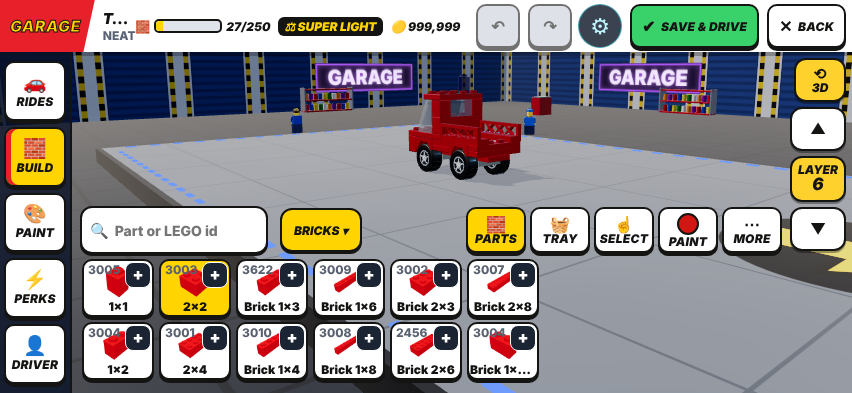
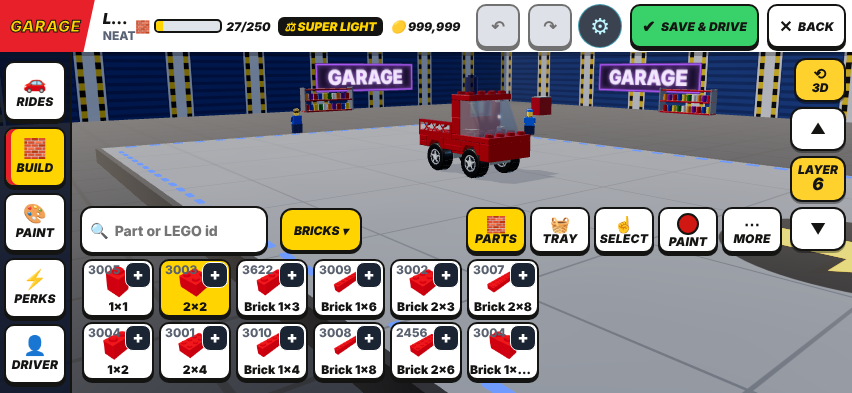
veh: Ladder Truck (LEGO 620 Classic Town truck, fix: facing forward with --yaw 3, LDraw by Takeshi Takahashi, CCAL 2.0) as RIDES preset t_v620_1
Claude-Session: https://claude.ai/code/session_01EyTkWHVhqPJ5PdrDtAmH7s

Changed region(s): [[0.4577, 0.1832, 0.6408, 0.458], [0.1221, 0.0305, 0.1526, 0.0611]]

diff --git a/src/98ld_v_620-1.js b/src/98ld_v_620-1.js
@@ -1,7 +1,7 @@
 // ---- LD data: real LEGO builds converted from LDraw OMR files (CCAL 2.0) by tools/ld/ld2garage.py + tools/ld/ld2src.py. Generated, do not edit.
 // Authors of the LDraw files: 620-1.mpd Takeshi Takahashi [RainbowDolphin]Takeshi Takahashi (RainbowDolphin). Details: docs/MODEL_PIPELINE.md.
[1 lines of base64/hex data omitted]
-Object.assign(LD_MODELS,{"v620_1":{"src":"620-1.mpd","by":"Takeshi Takahashi (RainbowDolphin)","n":27,"C":["#b40000","#8a928d","#1b2a34","~#fcfcfc","~#0020a0"],"B":[["p26",0,-4,4,2,0,0],["p12",0,2,4,3,0,0],["ld3788",-1,1,5,0,0,0],["ld3788",-1,-3,5,0,0,0],["p24",-1,-1,5,1,0,0],["p14",-1,-4,5,1,0,0],["p14",-1,-4,6,1,0,0],["p12",0,0,6,3,0,0],["p12",-1,-1,6,0,0,0],["p12",2,-1,6,0,0,0],["ld3633",2,-4,7,1,0,0],["ld3633",-1,-4,7,3,0,0],["p44",-1,0,7,1,0,0],["b14",-1,3,4,1,0,0],["ld122",-1,1,2,0,0,1],["ld122",-1,-3,2,0,0,1],["wS",2,0,1,0,0,2,0,-0.25,0],["wS",2,-4,1,0,0,2,0,-0.25,0],["wS",-1,-4,1,0,0,2,0,-0.25,0],["wS",-1,0,1,0,0,2,0,-0.25,0],["b14",-1,0,8,1,0,0],["b11",-1,0,11,2,0,0],["b11",2,0,11,2,0,0],["b12",0,0,11,3,0,3],["ld3823",-1,1,8,0,0,3],["p24",-1,0,14,1,0,0],["round",-1,0,15,3,0,4,0.5,0,0.5]]}});
+Object.assign(LD_MODELS,{"v620_1":{"src":"620-1.mpd","by":"Takeshi Takahashi (RainbowDolphin)","n":27,"C":["#b40000","#8a928d","#1b2a34","~#fcfcfc","~#0020a0"],"B":[["p26",-1,-2,4,0,0,0],["p12",-1,-3,4,1,0,0],["ld3788",-2,-3,5,2,0,0],["ld3788",-2,1,5,2,0,0],["p24",-2,-1,5,3,0,0],["p14",-2,3,5,3,0,0],["p14",-2,3,6,3,0,0],["p12",-1,-1,6,1,0,0],["p12",1,-1,6,2,0,0],["p12",-2,-1,6,2,0,0],["ld3633",-2,0,7,3,0,0],["ld3633",1,0,7,1,0,0],["p44",-2,-4,7,3,0,0],["b14",-2,-4,4,3,0,0],["ld122",-2,-3,2,2,0,1],["ld122",-2,1,2,2,0,1],["wS",-2,-4,1,0,0,2,0,-0.25,0],["wS",-2,0,1,0,0,2,0,-0.25,0],["wS",1,0,1,0,0,2,0,-0.25,0],["wS",1,-4,1,0,0,2,0,-0.25,0],["b14",-2,-1,8,3,0,0],["b11",1,-1,11,0,0,0],["b11",-2,-1,11,0,0,0],["b12",-1,-1,11,1,0,3],["ld3823",-2,-3,8,2,0,3],["p24",-2,-2,14,3,0,0],["round",1,-2,15,1,0,4,-0.5,0,0.5]]}});
 for(const k of ["ld122", "ld3633", "ld3788", "ld3823"]){const D=LD_MESH[k];if(!GB_PC[k]){GB_PC[k]={n:D.n.replace(/^~/,''),w:D.w,d:D.d,h:D.h,cat:'LDraw',ic:'◆',hide:1,s:D.s.some(q=>!q[3])};G13_ID[k]=D.id}}
 {const R=GAR_set('rod'),L=n=>JSON.parse(JSON.stringify(R.load[n]));
  GAR_SETS.push({id:'t_v620_1',n:"Ladder Truck (620)",tier:'c',req:null,car:()=>LD_br('v620_1'),off:R.off,boat:R.boat,tpl:1,ref:'620',forms:['car'],
